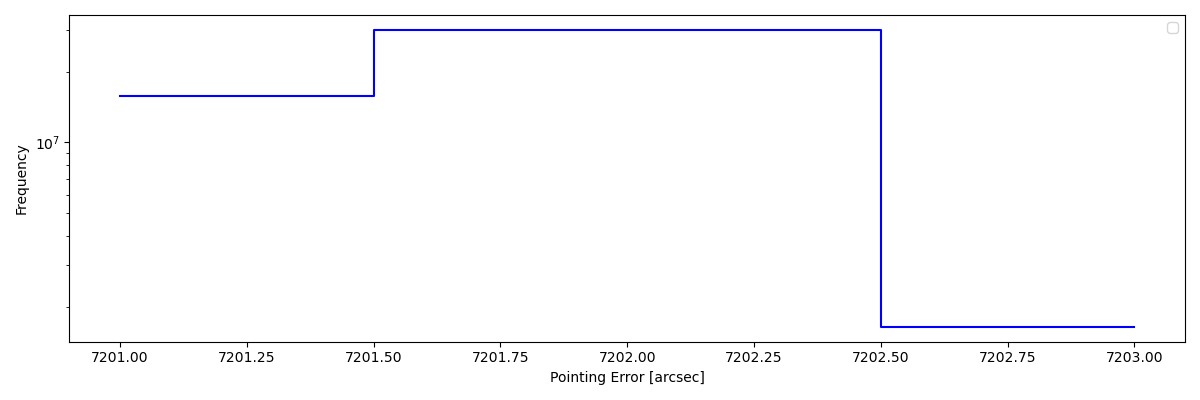
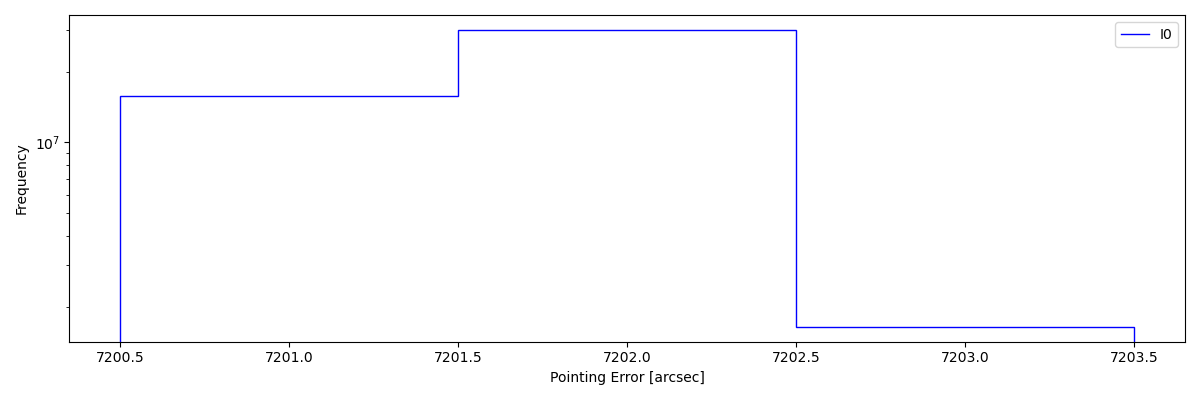
Added stairs plot for histograms

diff --git a/PlotHists.py b/PlotHists.py
@@ -23,9 +23,8 @@ def read_toml_hist(fpath):
     
     specifics = toml_dict["specifics"]
     
-    hist_keys = list(toml_dict["hist"].keys())
-    hist_keys.sort()
-    hist_dict = {i: toml_dict["hist"][i] for i in hist_keys}
+    # Sort hist by bins
+    hist_dict = dict(sorted(toml_dict["hist"].items()))
     
     bins = np.fromiter(hist_dict.keys(), dtype=int)
     freq = np.fromiter(hist_dict.values(), dtype=int)
@@ -45,38 +44,17 @@ def main():
     
     specifics, bins, freq = read_toml_hist(fpath)
     
-    
-    
-    
-
-    # nbins, step, outliers, freq, bins = read_hist_file(fpath)
-    
-    # nbins_I0, step_I0, outliers_I0, freq_I0, bins_I0 = read_hist_file("hist_tests/I0/hist_I0_0_10.hist")
-    # nbins_I1, step_I1, outliers_I1, freq_I1, bins_I1 = read_hist_file("hist_tests/I1/hist_I1_0_10.hist")
-    # nbins_V4, step_V4, outliers_V4, freq_V4, bins_V4 = read_hist_file("hist_tests/V4/hist_V4_0_10.hist")
-    
-    # bins_I0 -= np.mean(bins_I0)
-    # bins_I1 -= np.mean(bins_I1)
-    # bins_V4 -= np.mean(bins_V4)
-    
-    
-    # freq = freq_I0+freq_I1+freq_V4
-    # bins = bins_I0+bins_I1+bins_V4
-    
     fig, ax = plt.subplots(figsize=(12, 4), tight_layout=True)
-    # bins_width = step
-
-    ax.step(bins, freq, where="mid", c="blue")
     
+    bins_edges = np.append(bins-0.5, bins[-1]+0.5)
+    ax.stairs(freq, bins_edges, edgecolor="b", linewidth=1.0, fill=False, label=specifics["pol_name"])
     
-    # ax.step(bins_I0, freq_I0, label="I0_0_10", where="mid", c="blue")
-    # ax.step(bins_I1, freq_I1,label="I1_0_10", where="mid", c="red")
-    # ax.step(bins_V4, freq_V4, label="V4_0_10", where="mid", c="green")
     
     ax.legend()
-    ax.set_xlabel("Pointing Error [arcsec]")
+    ax.set_xlabel(f"Pointing Error [{specifics['units']}]")
     ax.set_yscale("log")
     ax.set_ylabel('Frequency')
+    ax.legend()
 
     # plotdir = "hist_plots/"
     # s = fpath.split("/")
